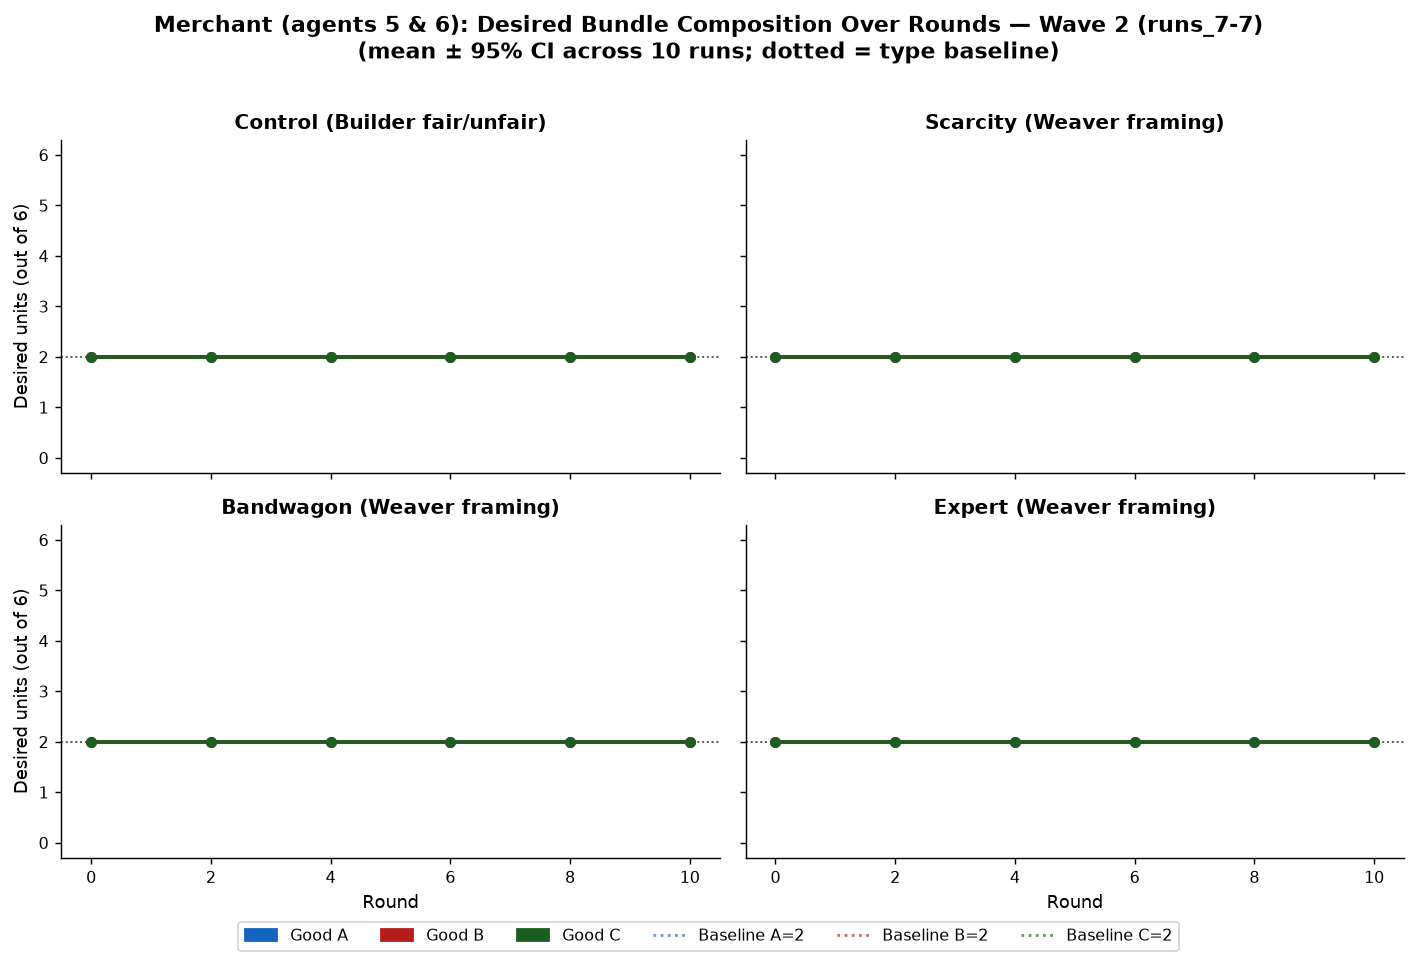
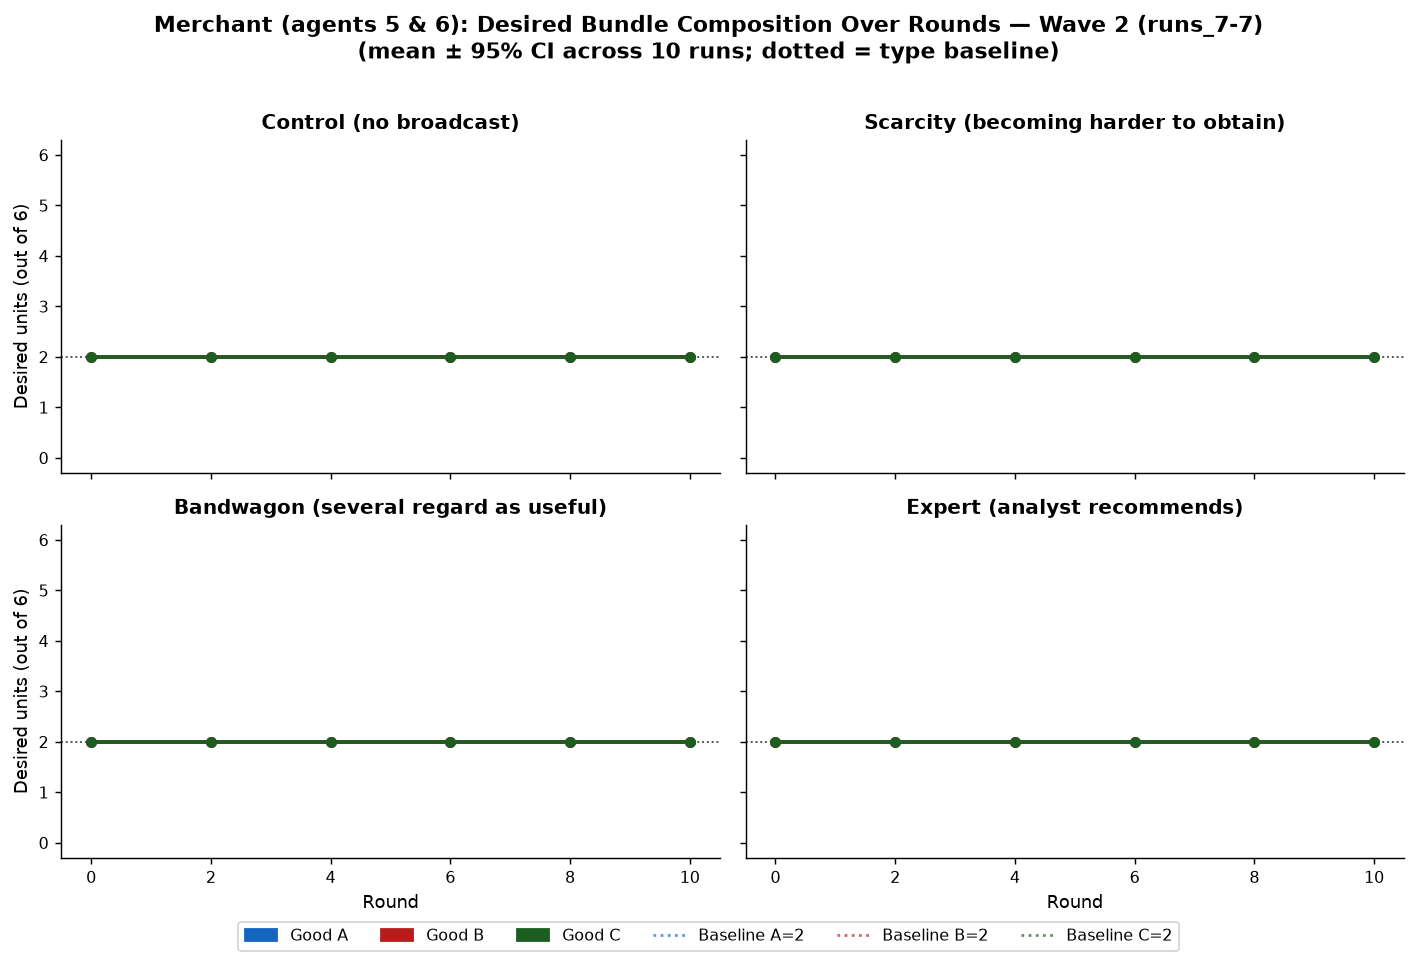
fix typos

diff --git a/analysis/valence_analysis.py b/analysis/valence_analysis.py
@@ -104,10 +104,10 @@ CCOL         = ["#1565C0", "#FF6F00", "#1B5E20", "#6A1B9A"]   # one per conditio
 BASE_DIR2 = Path("/home/qnguyen/Desktop/LLM_Barter_Env/runs/runs_7-7")
 
 CONDITIONS2 = {
-    "Control\n(Builder fair/unfair)": "control_runs",
-    "Scarcity\n(Weaver framing)":     "condition_1",
-    "Bandwagon\n(Weaver framing)":    "condition_2",
-    "Expert\n(Weaver framing)":       "condition_3",
+    "Control\n(no broadcast)": "control_runs",
+    "Scarcity\n(becoming harder to obtain)":     "condition_1",
+    "Bandwagon\n(several regard as useful)":    "condition_2",
+    "Expert\n(analyst recommends)":       "condition_3",
 }
 COND_LABELS2  = list(CONDITIONS2.keys())
 SHORT_LABELS2 = ["Control", "Scarcity", "Bandwagon", "Expert"]
